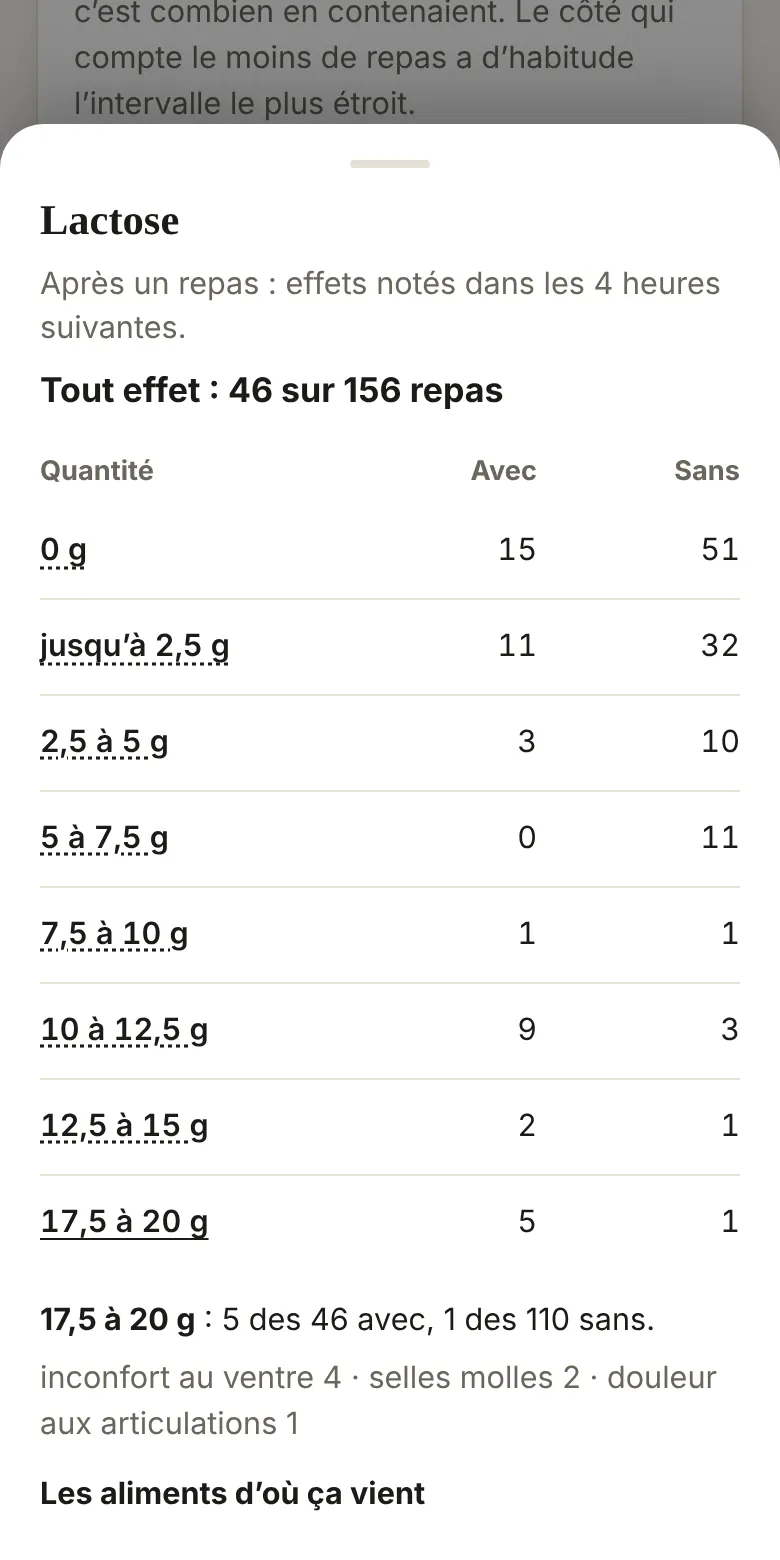
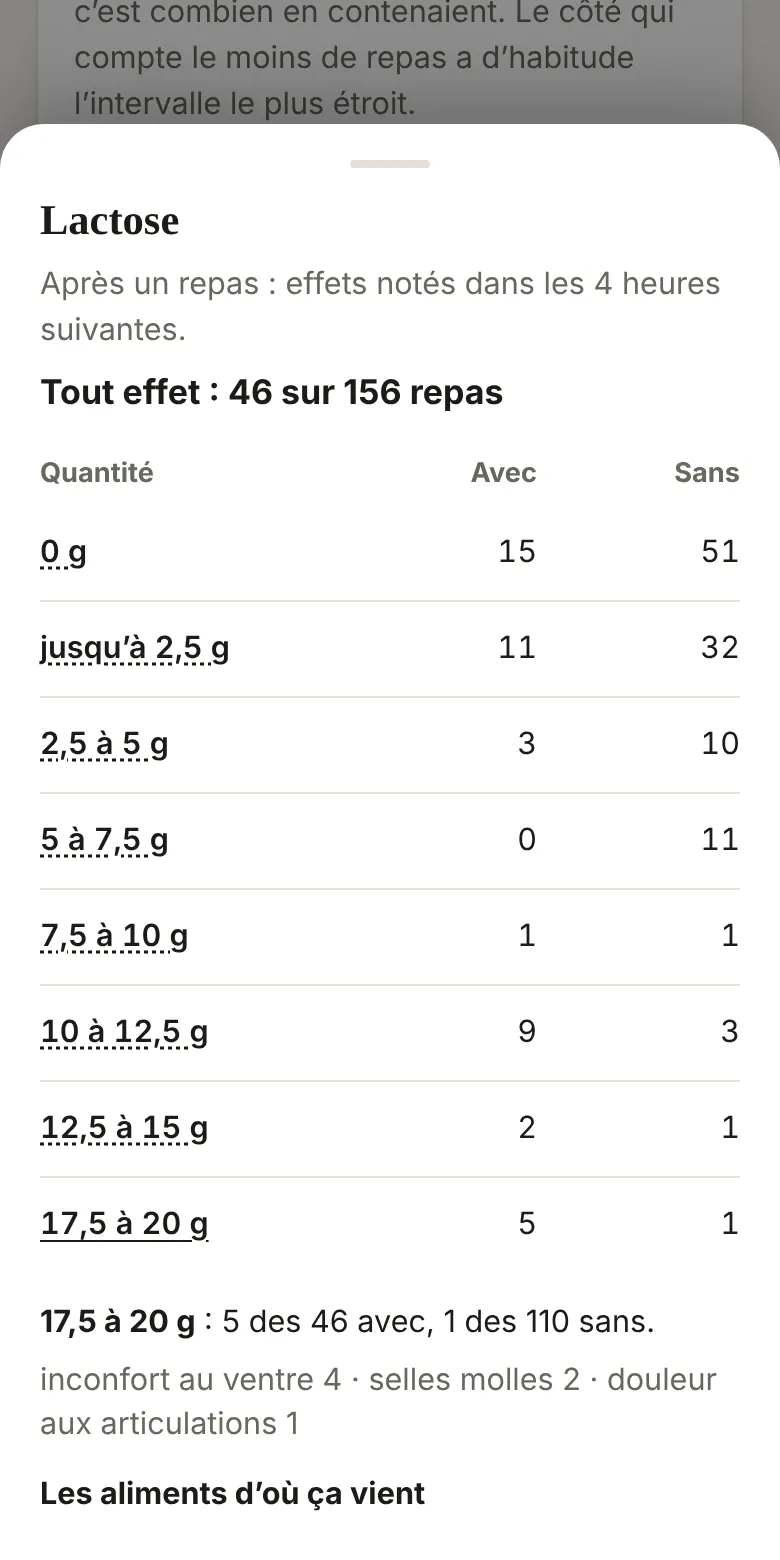
The example person's own word is « confusion », not « brouillard mental »
"Brain fog" in French is « mélangé » or « confusion » (Tobie). The
made-up person behind the tests and the page's pictures now writes
« confusion », and the two French pictures that showed the old word
are retaken. The English pictures still say "Brain fog".

Claude-Session: https://claude.ai/code/session_0165oQGZXNu1ULEJPAkewgjN

diff --git a/tests/threshold/people.js b/tests/threshold/people.js
@@ -67,7 +67,7 @@ function varied(table) {
     let sugars = 0, alcohol = 0;
     for (const m of today) { const am = amOf(m.items); sugars += am.sugars; alcohol += am.alcohol; meals.push(m);
       const u = rng(m.t / MIN | 0), h = am.hist >= 2.5 ? 0.75 : am.hist >= 1 ? 0.3 : 0.03, l = am.lactose >= 12 ? 0.8 : am.lactose >= 4 ? 0.25 : 0.02;
-      if (u() < h) fx.push({ t: m.t + (60 + Math.floor(u() * 140)) * MIN, codes: ['head'], own: u() < 0.3 ? [{ tab: 'psy', word: 'brouillard mental' }] : [] });     // hidden rule: histamine food, headache one to three hours later
+      if (u() < h) fx.push({ t: m.t + (60 + Math.floor(u() * 140)) * MIN, codes: ['head'], own: u() < 0.3 ? [{ tab: 'psy', word: 'confusion' }] : [] });     // hidden rule: histamine food, headache one to three hours later
       if (u() < l) fx.push({ t: m.t + (50 + Math.floor(u() * 120)) * MIN, codes: u() < 0.5 ? ['gut', 'loose'] : ['gut'] });                                           // hidden rule: lactose, gut discomfort
       }
     if (sugars >= 110 && r[0] < 0.6 && i + 1 < N && !skipped.has(i + 1)) fx.push({ t: T(i + 1, 10, 0), codes: ['lowen'] });
